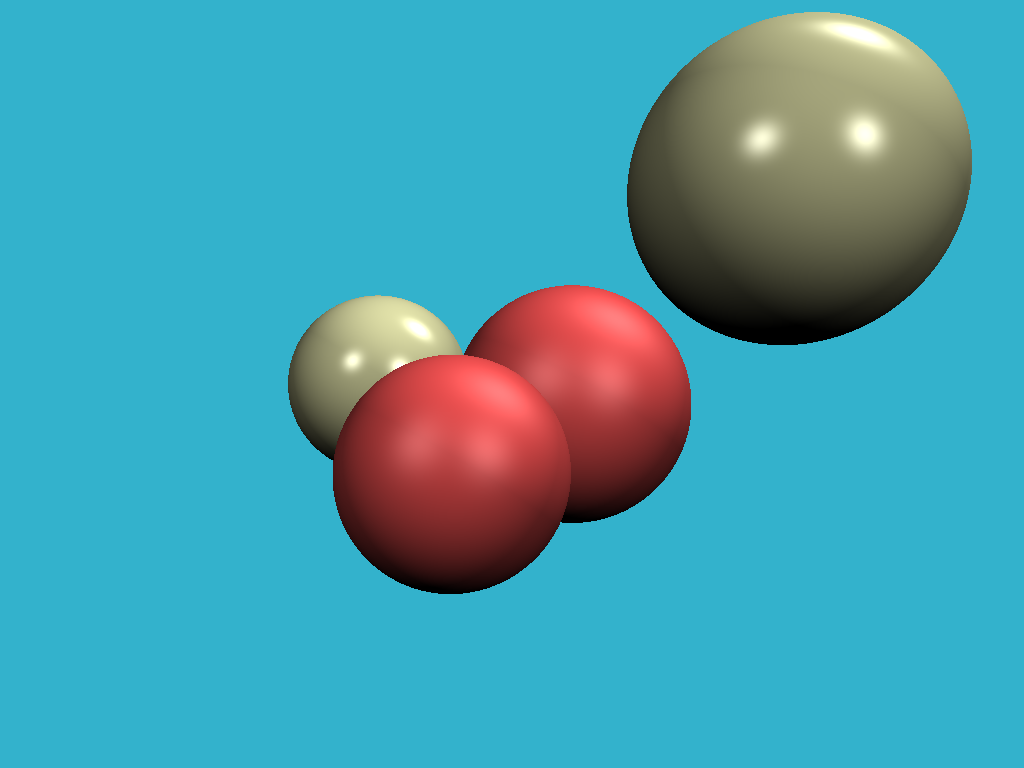
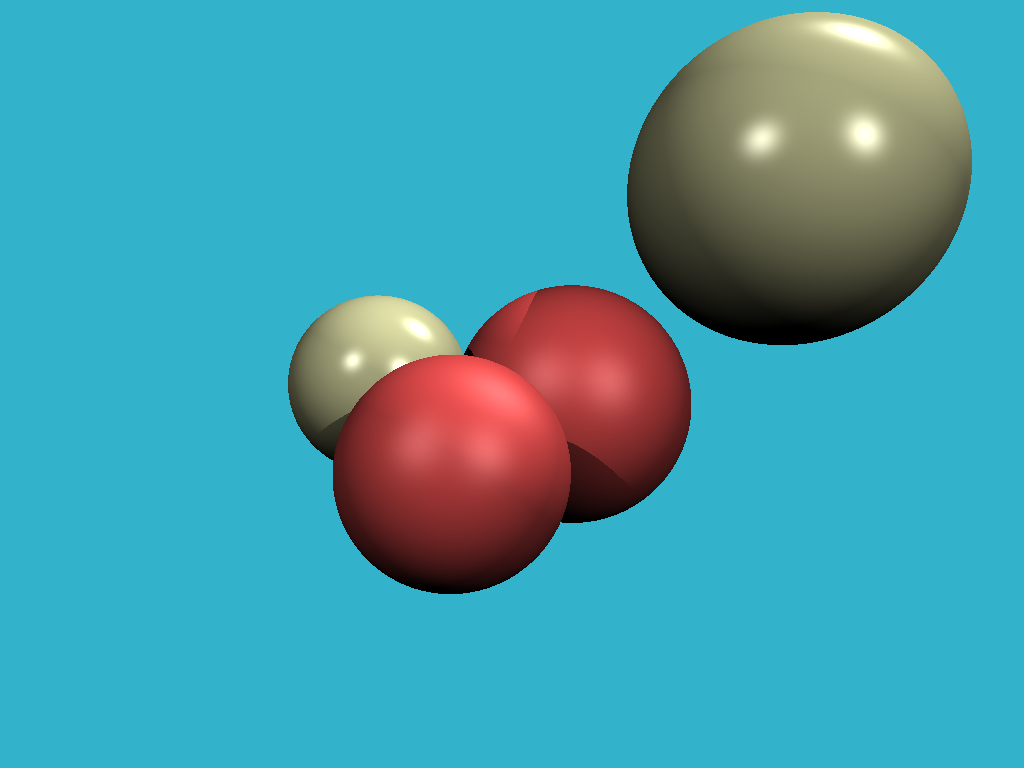
Add shadow ray

Changed region(s): [[0.5, 0.375, 0.6875, 0.5625], [0.5312, 0.5625, 0.625, 0.6562], [0.3125, 0.5312, 0.3438, 0.5625]]

diff --git a/TinyRayTracer/main.cpp b/TinyRayTracer/main.cpp
@@ -13,15 +13,12 @@
 #include "src/stb_image/stb_image_write.h"
 
 struct Material {
-	Material(const Vec2f& a, const Vec3f& color, const float& spec) : albedo{ a }, diffuse_color{ color }, specular_exponent{ spec } {}
-	Material() : albedo{ 1, 0 } {}
-	//Material(const Material& other) : albedo{ other.albedo }, diffuse_color{ other.diffuse_color }, specular_exponent{ other.specular_exponent }
-	//{
-	//}
-
 	Vec2f albedo;
 	Vec3f diffuse_color;
 	float specular_exponent;
+
+	Material(const Vec2f& a, const Vec3f& color, const float& spec) : albedo{ a }, diffuse_color{ color }, specular_exponent{ spec } {}
+	Material() : albedo{ 1, 0 } {}
 };
 
 struct Light
@@ -273,26 +270,26 @@ bool sceneIntersect(const Vec3f& orig, const Vec3f& dir, const std::vector<Spher
 	return sphereDist < 1000.0f;
 }
 
-void calcLighting(const std::vector<Light>& lights, const Vec3f& point, const Vec3f& normal, float& dIntensity, float& sIntensity)
-{
-	float diffuseIntensity{ 0.0f };
-	float specularIntensity{ 0.0f };
-
-	Vec3f view{ point - Vec3f{0.0f, 0.0f, 0.0f} };
-	view = view.normalize();
-
-	for (const Light& light : lights)
-	{
-		Vec3f lightDir{ (light.position - point).normalize() };
-		diffuseIntensity += light.intensity * std::max(0.0f, lightDir * normal);
-
-		Vec3f r{ reflect(lightDir, normal).normalize() };
-		specularIntensity += light.intensity * std::powf(std::max(0.0f, r * view), 50.0f);
-	}
-
-	dIntensity = diffuseIntensity;
-	sIntensity = specularIntensity;
-}
+//void calcLighting(const std::vector<Light>& lights, const Vec3f& point, const Vec3f& normal, float& dIntensity, float& sIntensity)
+//{
+//	float diffuseIntensity{ 0.0f };
+//	float specularIntensity{ 0.0f };
+//
+//	Vec3f view{ point - Vec3f{0.0f, 0.0f, 0.0f} };
+//	view = view.normalize();
+//
+//	for (const Light& light : lights)
+//	{
+//		Vec3f lightDir{ (light.position - point).normalize() };
+//		diffuseIntensity += light.intensity * std::max(0.0f, lightDir * normal);
+//
+//		Vec3f r{ reflect(lightDir, normal).normalize() };
+//		specularIntensity += light.intensity * std::powf(std::max(0.0f, r * view), 50.0f);
+//	}
+//
+//	dIntensity = diffuseIntensity;
+//	sIntensity = specularIntensity;
+//}
 
 Vec3f castRay(const Vec3f& orig, const Vec3f& dir, const std::vector<Sphere>& scene, const std::vector<Light>& lights)
 {
@@ -309,6 +306,16 @@ Vec3f castRay(const Vec3f& orig, const Vec3f& dir, const std::vector<Sphere>& sc
 	for (const Light& light : lights)
 	{
 		Vec3f lightDir{ (light.position - point).normalize() };
+		float lightDist{ (light.position - point).norm() };
+
+		Vec3f shadowPoint, shadowNormal;
+		Material tempMaterial;
+		Vec3f shadowOrig{ lightDir * N < 0 ? point - N * 1e-3 : point + N * 1e-3 };
+		Vec3f adjLightDir{ (light.position - shadowOrig).normalize() };
+
+		if (sceneIntersect(shadowOrig, adjLightDir, scene, shadowPoint, shadowNormal, tempMaterial)
+			&& lightDist > (shadowPoint - shadowOrig).norm())
+			continue;
 
 		diffuseLightIntensity += light.intensity * std::max(0.0f, lightDir * N);
 		specularLightIntensity += powf(std::max(0.0f, reflect(lightDir, N) * dir), mat.specular_exponent) * light.intensity;
@@ -381,4 +388,4 @@ int main() {
 	render(scene, lights);
 
 	return 0;
-}
+}	
